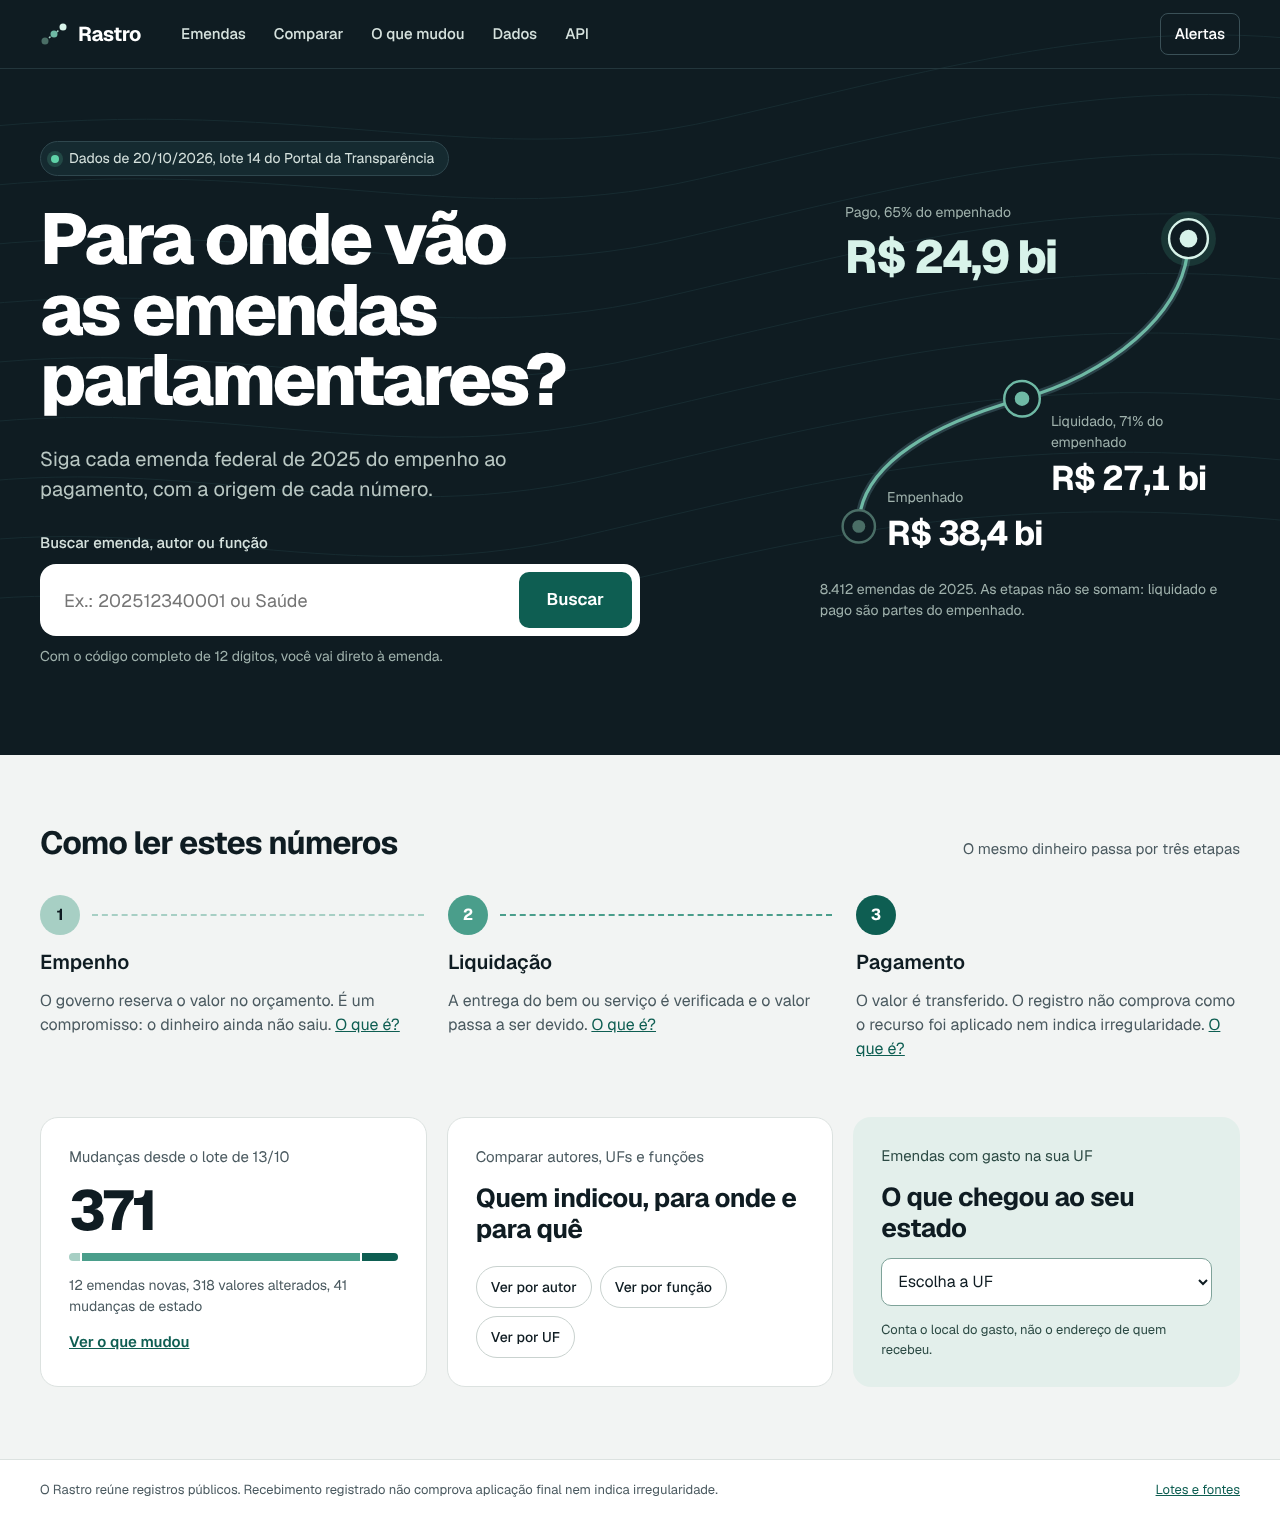
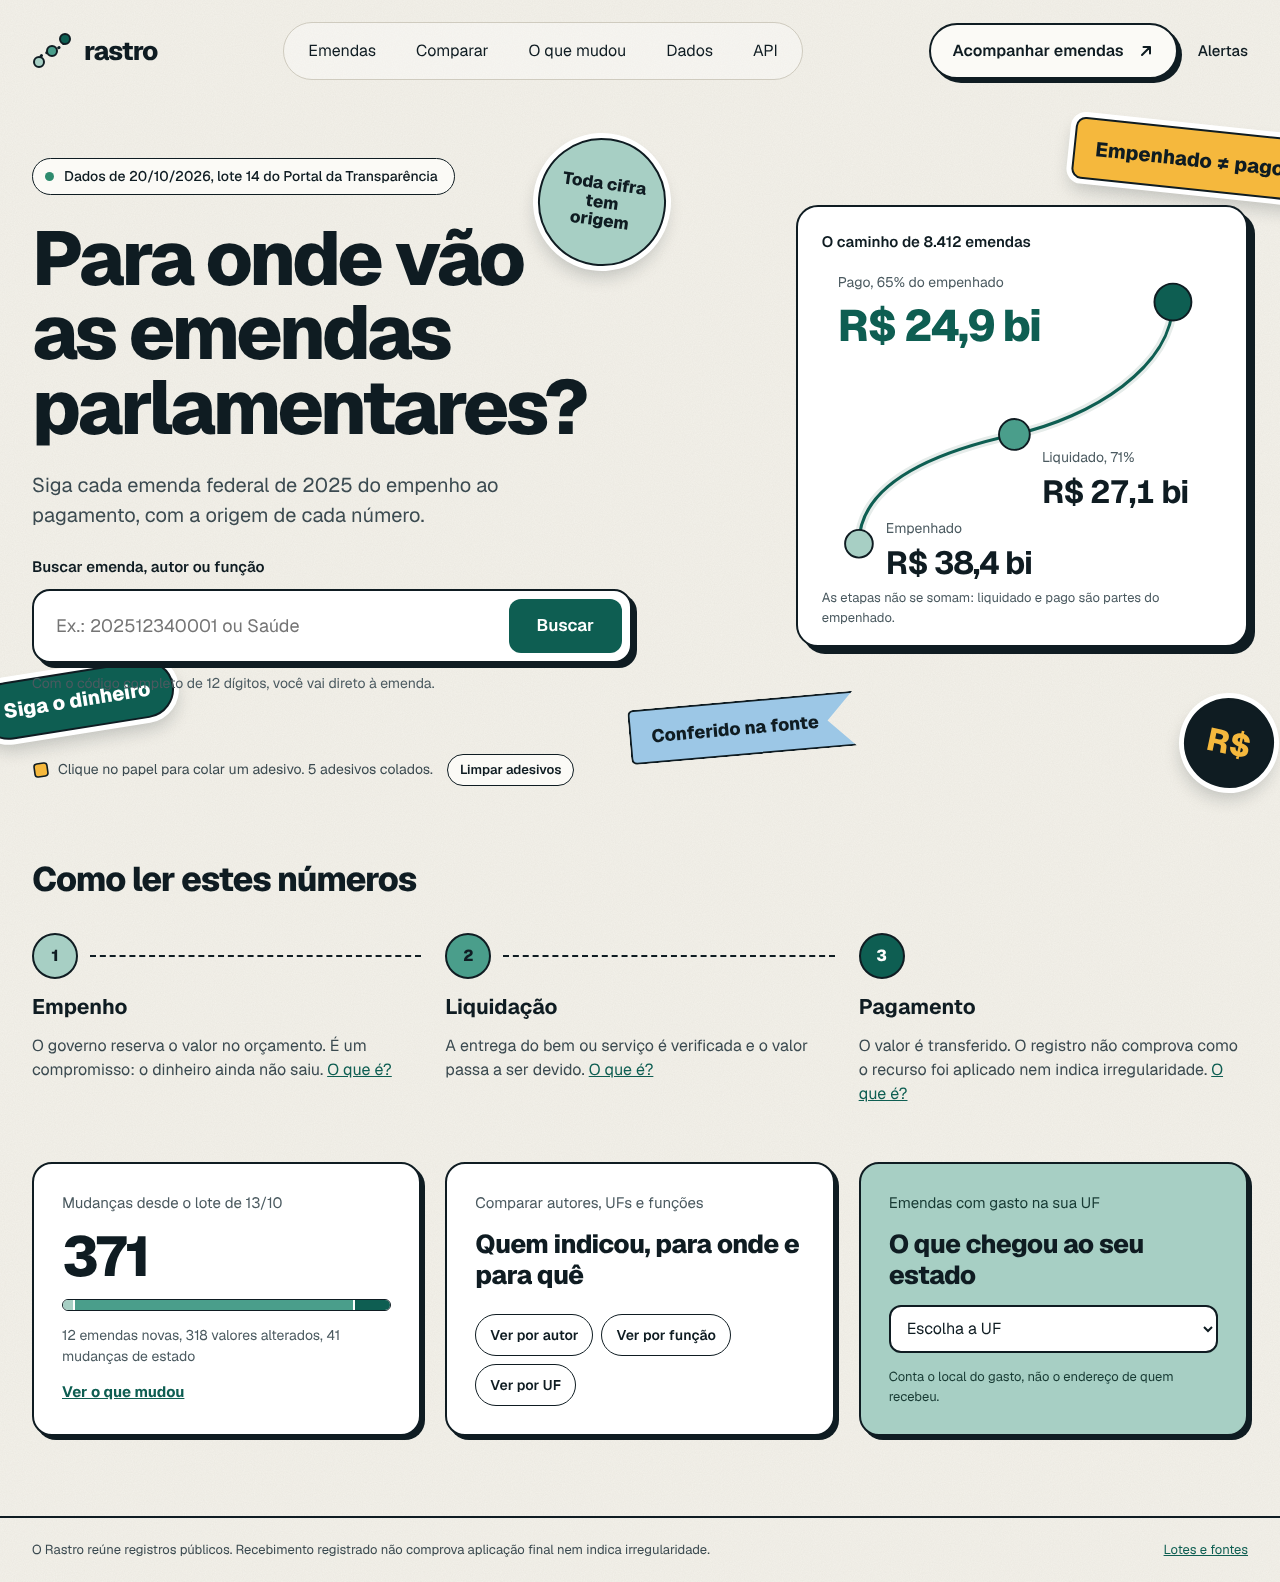
P01: topo em papel com navegação em pílula e adesivos interativos
Claude-Session: https://claude.ai/code/session_01ETNU5uQUMK4aChQjZRdReK

diff --git a/especificacoes/joao-vitor/telas/P01-inicio.md b/especificacoes/joao-vitor/telas/P01-inicio.md
@@ -28,6 +28,7 @@
   - "Comparar autores, UFs e funções" → P06.
   - "Ver o que mudou" → P08 (`listar_mudancas` sem parâmetros).
   - Faixa "Dados de … · Lote #n" → P09.
+  - Clicar no papel do topo (ou Enter no botão "Colar um adesivo no papel") → cola um adesivo com uma frase do glossário ("Empenhado ≠ pago", "Toda cifra tem origem") no ponto clicado. A interação é só visual, acontece no navegador, não chama a API e não guarda nada; "Limpar adesivos" remove todos.
 - **Estados:**
   - **carregando:** esqueleto do resumo e da faixa; campo de busca já utilizável (REQ-44).
   - **vazio:** não se aplica ao resumo. Lote com 0 mudanças → "Nenhuma mudança no último lote" (REQ-45).
@@ -48,4 +49,5 @@
   - Um único `<h1>`; campo de busca com rótulo visível "Buscar emenda, autor ou função" e dica de formato do código.
   - Os três valores do resumo formam uma lista (`<dl>`) com o valor completo no texto acessível ("R$ 1,2 bilhão", não "R$ 1,2 bi").
   - Foco inicial no conteúdo, não no campo, para não abrir o teclado no celular.
+  - Os adesivos são decorativos (`aria-hidden`), ficam atrás do texto e nunca cobrem a busca. O botão que cola adesivos tem nome acessível, a contagem é texto visível, e a animação some com `prefers-reduced-motion`.
 - **Anexo:** mockup de referência [anexos/P01.png](anexos/P01.png), exportado do canvas "Rastro — telas" (Claude Design).
